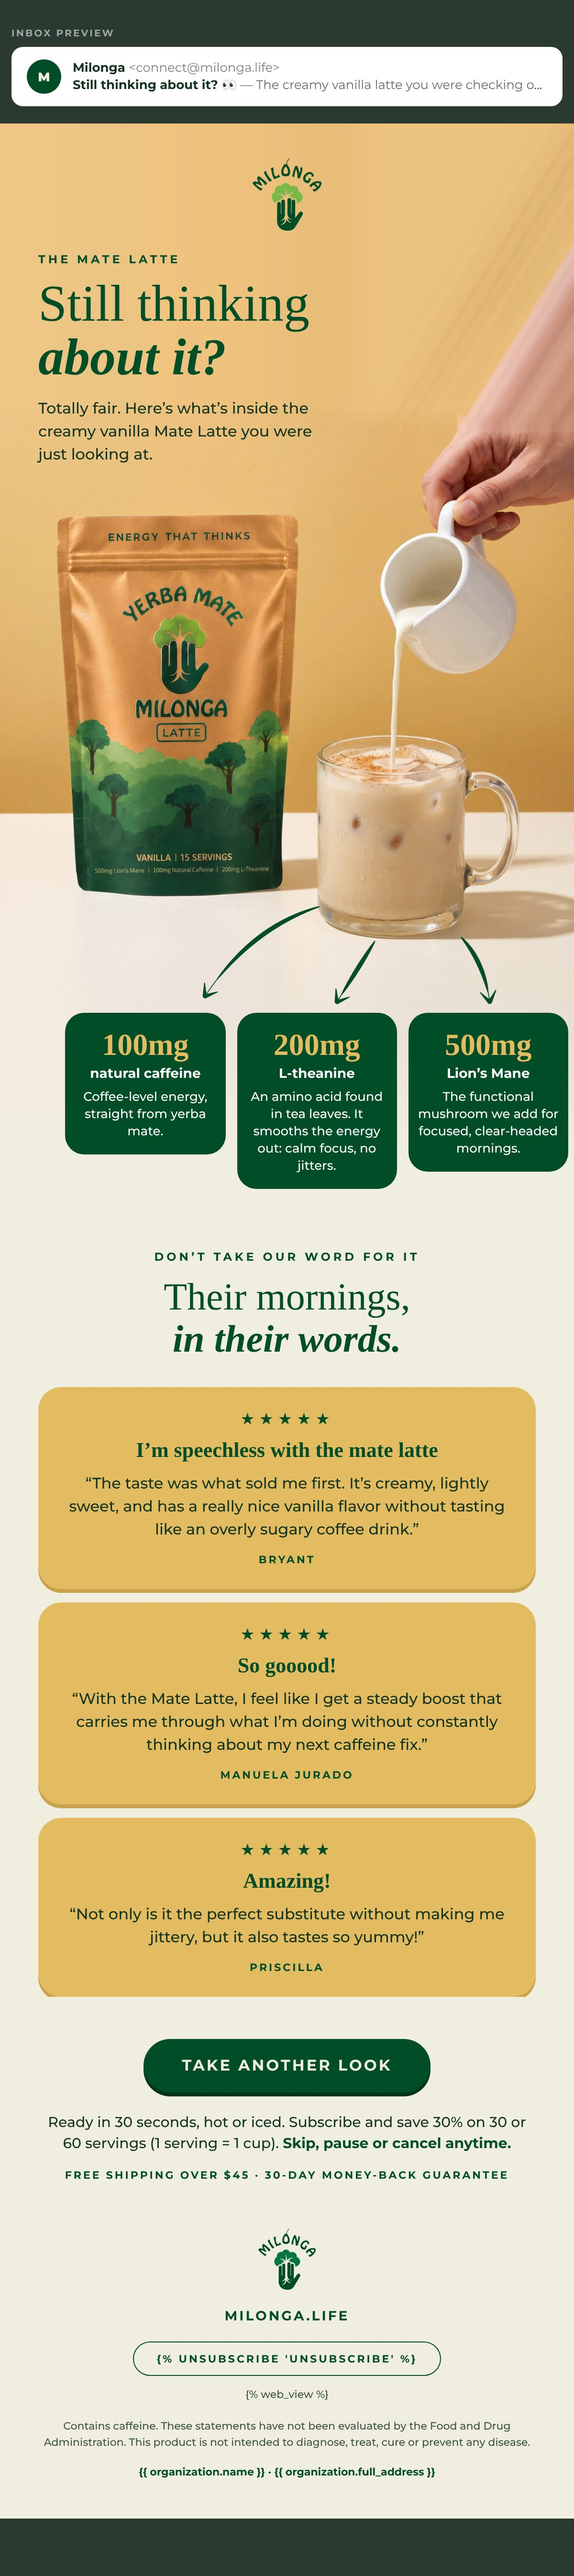
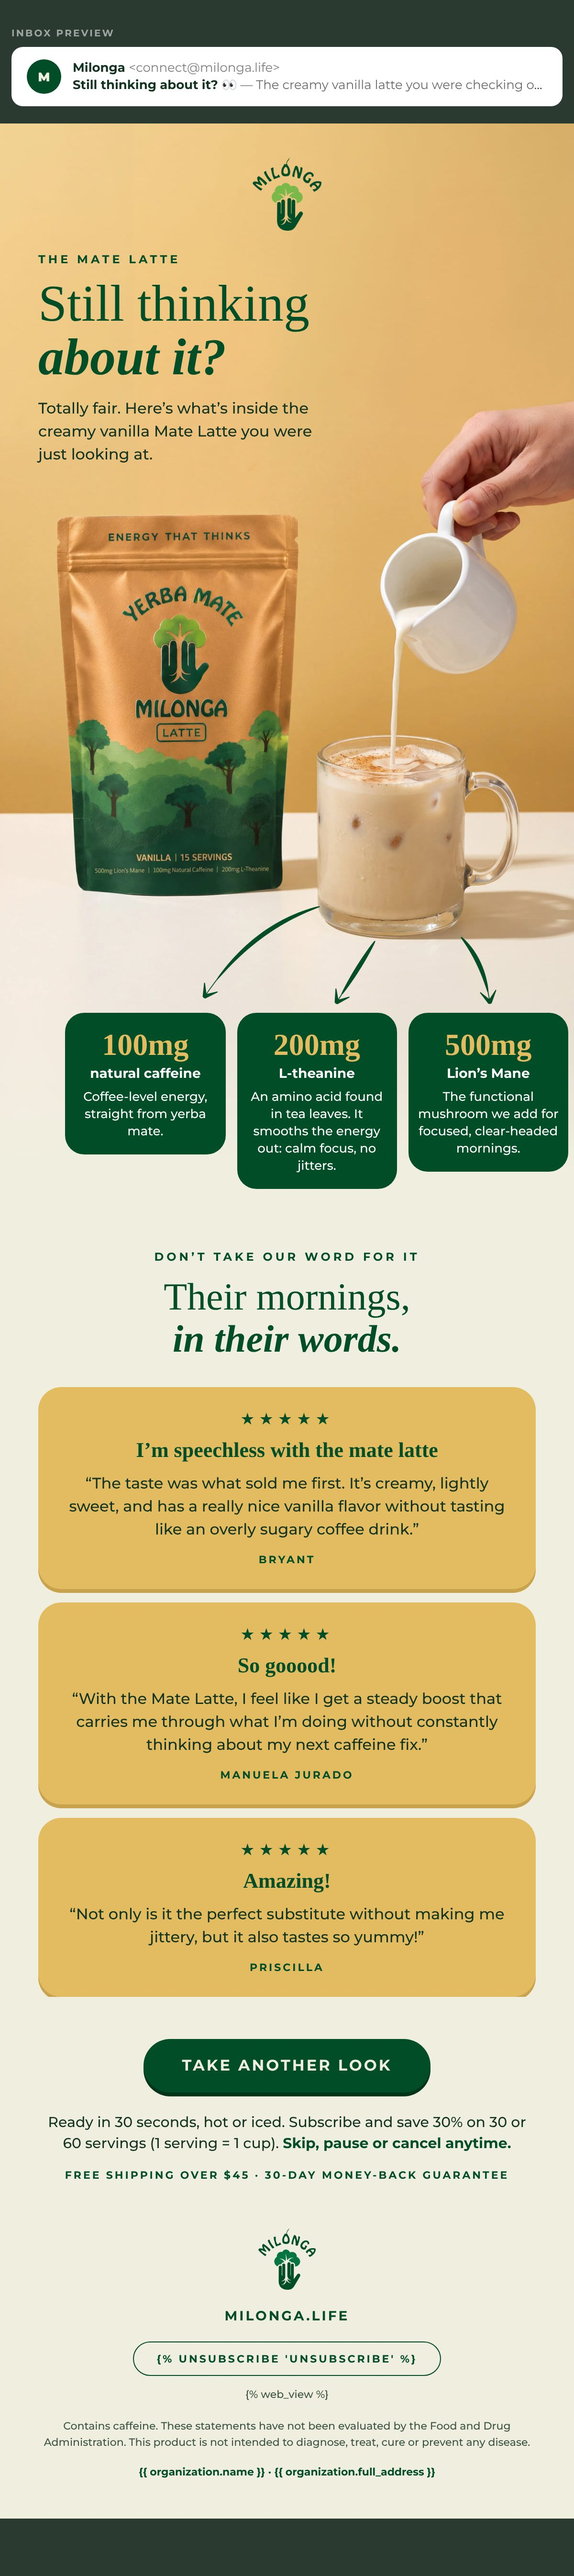
Browse E1: outpainted backgrounds on Klaviyo's CDN, README and renders
Claude-Session: https://claude.ai/code/session_01NhEtXPnfeCJfN73SqBkUZ5

Changed region(s): [[0.8017, 0.0936, 1.0, 0.1873]]

diff --git a/email-ds/exports/klaviyo/browse-e1/browse-e1.html b/email-ds/exports/klaviyo/browse-e1/browse-e1.html
@@ -18,7 +18,7 @@
     .pad-photo { padding-left:16px !important; padding-right:16px !important; }
     .h-hero { font-size:44px !important; line-height:46px !important; }
     .h-sec { font-size:32px !important; line-height:36px !important; }
-    .hero { height:940px !important; background-image:url('https://cdn.klaviyomail.com/company/TwvSnK/images/f054a621-f808-4c31-be07-66d7f1734a77.jpeg') !important; background-size:cover !important; background-position:center top !important; }
+    .hero { height:940px !important; background-image:url('https://cdn.klaviyomail.com/company/TwvSnK/images/620a8b6f-5858-4da0-8120-745ee275d3cc.jpeg') !important; background-size:cover !important; background-position:center top !important; }
     .hero-in { padding:28px 22px 0 !important; }
     .hero-logo { width:57px !important; height:60px !important; }
     .hero-intro { max-width:260px !important; font-size:15px !important; line-height:22px !important; }
@@ -44,8 +44,8 @@
 
 <!-- ── 1 · STILL THINKING ABOUT IT? (the photo is the section's background:
      title on the gold wall, three arrows out of the cup, cards on the table) ── -->
-<tr><td class="bg-hero hero" align="left" valign="top" height="1120" background="https://cdn.klaviyomail.com/company/TwvSnK/images/d25e1011-0516-4d22-b721-0fc15fc38730.jpeg" bgcolor="#E7BE7A" style="height:1120px;background-color:#E7BE7A;background-image:url('https://cdn.klaviyomail.com/company/TwvSnK/images/d25e1011-0516-4d22-b721-0fc15fc38730.jpeg');background-size:cover;background-position:center top;background-repeat:no-repeat;padding:0;">
-<!--[if gte mso 9]><v:rect xmlns:v="urn:schemas-microsoft-com:vml" fill="true" stroke="false" style="width:600px;height:1120px;"><v:fill type="frame" src="https://cdn.klaviyomail.com/company/TwvSnK/images/d25e1011-0516-4d22-b721-0fc15fc38730.jpeg" color="#E7BE7A" /><v:textbox inset="0,0,0,0"><![endif]-->
+<tr><td class="bg-hero hero" align="left" valign="top" height="1120" background="https://cdn.klaviyomail.com/company/TwvSnK/images/259927c3-616b-454a-8923-2cd23fc46396.jpeg" bgcolor="#E7BE7A" style="height:1120px;background-color:#E7BE7A;background-image:url('https://cdn.klaviyomail.com/company/TwvSnK/images/259927c3-616b-454a-8923-2cd23fc46396.jpeg');background-size:cover;background-position:center top;background-repeat:no-repeat;padding:0;">
+<!--[if gte mso 9]><v:rect xmlns:v="urn:schemas-microsoft-com:vml" fill="true" stroke="false" style="width:600px;height:1120px;"><v:fill type="frame" src="https://cdn.klaviyomail.com/company/TwvSnK/images/259927c3-616b-454a-8923-2cd23fc46396.jpeg" color="#E7BE7A" /><v:textbox inset="0,0,0,0"><![endif]-->
 <div class="hero-in" style="padding:36px 40px 0;font-family:'Montserrat','Helvetica Neue',Helvetica,Arial,sans-serif;">
 <a href="https://milonga.life/?utm_source=klaviyo&amp;utm_medium=email&amp;utm_campaign=browse_abandon_mate_latte&amp;utm_content=b1_logo" target="_blank" style="display:block;text-align:center;"><img class="hero-logo" src="https://cdn.klaviyomail.com/company/TwvSnK/images/255ac3db-df13-4823-aab2-52c476b64923.png" width="72" height="76" alt="Milonga" style="display:block;margin:0 auto;width:72px;height:76px;border:0;"></a>
 <div style="padding-top:22px;font-size:12px;line-height:16px;font-weight:700;letter-spacing:3px;text-transform:uppercase;color:#004D27;">The Mate Latte</div>
